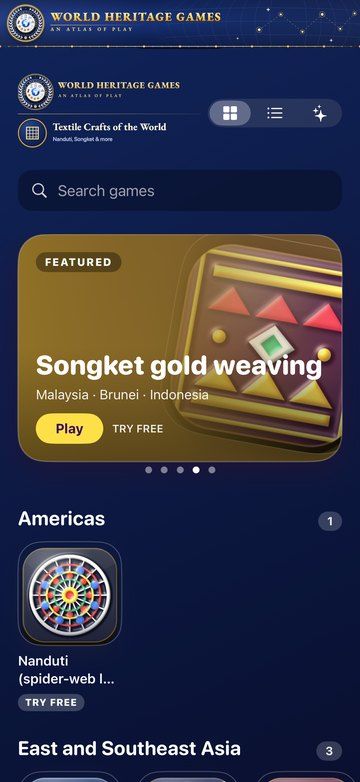
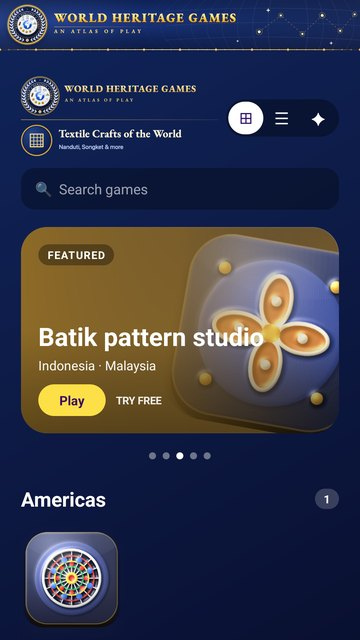
WHG set cards: refreshed phone mock-ups from the new builds, 3D gallery row, richer shadows (7 sets)

diff --git a/index.html b/index.html
@@ -990,7 +990,9 @@
             <img class="p2" src="assets/games/whg-story-theatre-home.jpg" alt="" width="360" height="782" loading="lazy">
             <img class="p3" src="assets/games/whg-story-theatre-play.jpg" alt="" width="360" height="782" loading="lazy">
         </div>
-    </article>
+    
+    <ul class="whg-gallery" aria-label="Inside the app"><li><img src="assets/games/whg-story-theatre-shot1.jpg" alt="" width="360" height="640" loading="lazy"></li><li><img src="assets/games/whg-story-theatre-shot2.jpg" alt="" width="360" height="640" loading="lazy"></li><li><img src="assets/games/whg-story-theatre-shot3.jpg" alt="" width="360" height="640" loading="lazy"></li><li><img src="assets/games/whg-story-theatre-shot4.jpg" alt="" width="360" height="640" loading="lazy"></li></ul>
+        </article>
 
 
     <!-- World Heritage Games: Sports & Skill of the World (hand-built flagship module, sits between the Arcforge card and the generated standalone list) -->
@@ -1023,7 +1025,9 @@
             <img class="p2" src="assets/games/whg-sports-skill-home.jpg" alt="" width="360" height="782" loading="lazy">
             <img class="p3" src="assets/games/whg-sports-skill-play.jpg" alt="" width="360" height="782" loading="lazy">
         </div>
-    </article>
+    
+    <ul class="whg-gallery" aria-label="Inside the app"><li><img src="assets/games/whg-sports-skill-shot1.jpg" alt="" width="360" height="640" loading="lazy"></li><li><img src="assets/games/whg-sports-skill-shot2.jpg" alt="" width="360" height="640" loading="lazy"></li><li><img src="assets/games/whg-sports-skill-shot3.jpg" alt="" width="360" height="640" loading="lazy"></li><li><img src="assets/games/whg-sports-skill-shot4.jpg" alt="" width="360" height="640" loading="lazy"></li></ul>
+        </article>
 
 
     <!-- World Heritage Games: Craft Designs of the World (hand-built flagship module, sits between the Arcforge card and the generated standalone list) -->
@@ -1056,7 +1060,9 @@
             <img class="p2" src="assets/games/whg-craft-designs-home.jpg" alt="" width="360" height="782" loading="lazy">
             <img class="p3" src="assets/games/whg-craft-designs-play.jpg" alt="" width="360" height="782" loading="lazy">
         </div>
-    </article>
+    
+    <ul class="whg-gallery" aria-label="Inside the app"><li><img src="assets/games/whg-craft-designs-shot1.jpg" alt="" width="360" height="640" loading="lazy"></li><li><img src="assets/games/whg-craft-designs-shot2.jpg" alt="" width="360" height="640" loading="lazy"></li><li><img src="assets/games/whg-craft-designs-shot3.jpg" alt="" width="360" height="640" loading="lazy"></li><li><img src="assets/games/whg-craft-designs-shot4.jpg" alt="" width="360" height="640" loading="lazy"></li></ul>
+        </article>
 
 
     <!-- World Heritage Games: Paper & Paint of the World (hand-built flagship module, sits between the Arcforge card and the generated standalone list) -->
@@ -1089,7 +1095,9 @@
             <img class="p2" src="assets/games/whg-paper-paint-home.jpg" alt="" width="360" height="782" loading="lazy">
             <img class="p3" src="assets/games/whg-paper-paint-play.jpg" alt="" width="360" height="782" loading="lazy">
         </div>
-    </article>
+    
+    <ul class="whg-gallery" aria-label="Inside the app"><li><img src="assets/games/whg-paper-paint-shot1.jpg" alt="" width="360" height="640" loading="lazy"></li><li><img src="assets/games/whg-paper-paint-shot2.jpg" alt="" width="360" height="640" loading="lazy"></li><li><img src="assets/games/whg-paper-paint-shot3.jpg" alt="" width="360" height="640" loading="lazy"></li><li><img src="assets/games/whg-paper-paint-shot4.jpg" alt="" width="360" height="640" loading="lazy"></li></ul>
+        </article>
 
 
     <!-- World Heritage Games: Textile Crafts of the World (hand-built flagship module, sits between the Arcforge card and the generated standalone list) -->
@@ -1122,7 +1130,9 @@
             <img class="p2" src="assets/games/whg-textile-crafts-home.jpg" alt="" width="360" height="782" loading="lazy">
             <img class="p3" src="assets/games/whg-textile-crafts-play.jpg" alt="" width="360" height="782" loading="lazy">
         </div>
-    </article>
+    
+    <ul class="whg-gallery" aria-label="Inside the app"><li><img src="assets/games/whg-textile-crafts-shot1.jpg" alt="" width="360" height="640" loading="lazy"></li><li><img src="assets/games/whg-textile-crafts-shot2.jpg" alt="" width="360" height="640" loading="lazy"></li><li><img src="assets/games/whg-textile-crafts-shot3.jpg" alt="" width="360" height="640" loading="lazy"></li><li><img src="assets/games/whg-textile-crafts-shot4.jpg" alt="" width="360" height="640" loading="lazy"></li></ul>
+        </article>
 
 
     <!-- World Heritage Games: Drum Music of the World (hand-built flagship module, sits between the Arcforge card and the generated standalone list) -->
@@ -1155,7 +1165,9 @@
             <img class="p2" src="assets/games/whg-drum-music-home.jpg" alt="" width="360" height="782" loading="lazy">
             <img class="p3" src="assets/games/whg-drum-music-play.jpg" alt="" width="360" height="782" loading="lazy">
         </div>
-    </article>
+    
+    <ul class="whg-gallery" aria-label="Inside the app"><li><img src="assets/games/whg-drum-music-shot1.jpg" alt="" width="360" height="640" loading="lazy"></li><li><img src="assets/games/whg-drum-music-shot2.jpg" alt="" width="360" height="640" loading="lazy"></li><li><img src="assets/games/whg-drum-music-shot3.jpg" alt="" width="360" height="640" loading="lazy"></li><li><img src="assets/games/whg-drum-music-shot4.jpg" alt="" width="360" height="640" loading="lazy"></li></ul>
+        </article>
 
     <!-- World Heritage Games: Music &amp; Dance of the World (hand-built flagship module, sits between the Arcforge card and the generated standalone list) -->
     <article class="whg-hero" id="music-dance">
@@ -1187,7 +1199,9 @@
             <img class="p2" src="assets/games/whg-music-dance-home.jpg" alt="" width="360" height="782" loading="lazy">
             <img class="p3" src="assets/games/whg-music-dance-play.jpg" alt="" width="360" height="782" loading="lazy">
         </div>
-    </article>
+    
+    <ul class="whg-gallery" aria-label="Inside the app"><li><img src="assets/games/whg-music-dance-shot1.jpg" alt="" width="360" height="640" loading="lazy"></li><li><img src="assets/games/whg-music-dance-shot2.jpg" alt="" width="360" height="640" loading="lazy"></li><li><img src="assets/games/whg-music-dance-shot3.jpg" alt="" width="360" height="640" loading="lazy"></li><li><img src="assets/games/whg-music-dance-shot4.jpg" alt="" width="360" height="640" loading="lazy"></li></ul>
+        </article>
     </div>
 
     <!-- Standalone games from Arcforge: add new .game-tile cards below. Set --art on .game-tile-art to the same banner URL (fills any letterbox space; the banner itself is never cropped). -->

diff --git a/style.css b/style.css
@@ -1504,3 +1504,11 @@ a.pager-btn:focus-visible { outline: 2px solid #fff; outline-offset: 2px; }
 .collections-grid { display: block; }
 .collections-grid > :first-child { margin-top: 0; }
 .af-row-label[hidden] { display: none; }
+
+/* WHG set cards: 'inside the app' gallery row spanning the card */
+.whg-gallery { grid-column: 1 / -1; list-style: none; display: grid; grid-template-columns: repeat(4, 1fr); gap: 18px; margin: 10px 0 0; padding: 0; }
+.whg-gallery li { border-radius: 22px; overflow: hidden; border: 2px solid #e8b94a; background: #05070f; box-shadow: 0 22px 44px rgba(0,0,0,.55), 0 0 0 5px rgba(232,185,74,.10), 0 0 36px rgba(255,200,100,.12); transition: transform .2s; }
+.whg-gallery li:hover { transform: translateY(-6px) scale(1.02); }
+.whg-gallery img { display: block; width: 100%; height: auto; }
+@media (max-width: 760px) { .whg-gallery { grid-template-columns: repeat(2, 1fr); gap: 12px; } }
+.whg-instr img { box-shadow: 0 8px 18px rgba(0,0,0,.55), 0 0 14px rgba(255,214,140,.18); }
